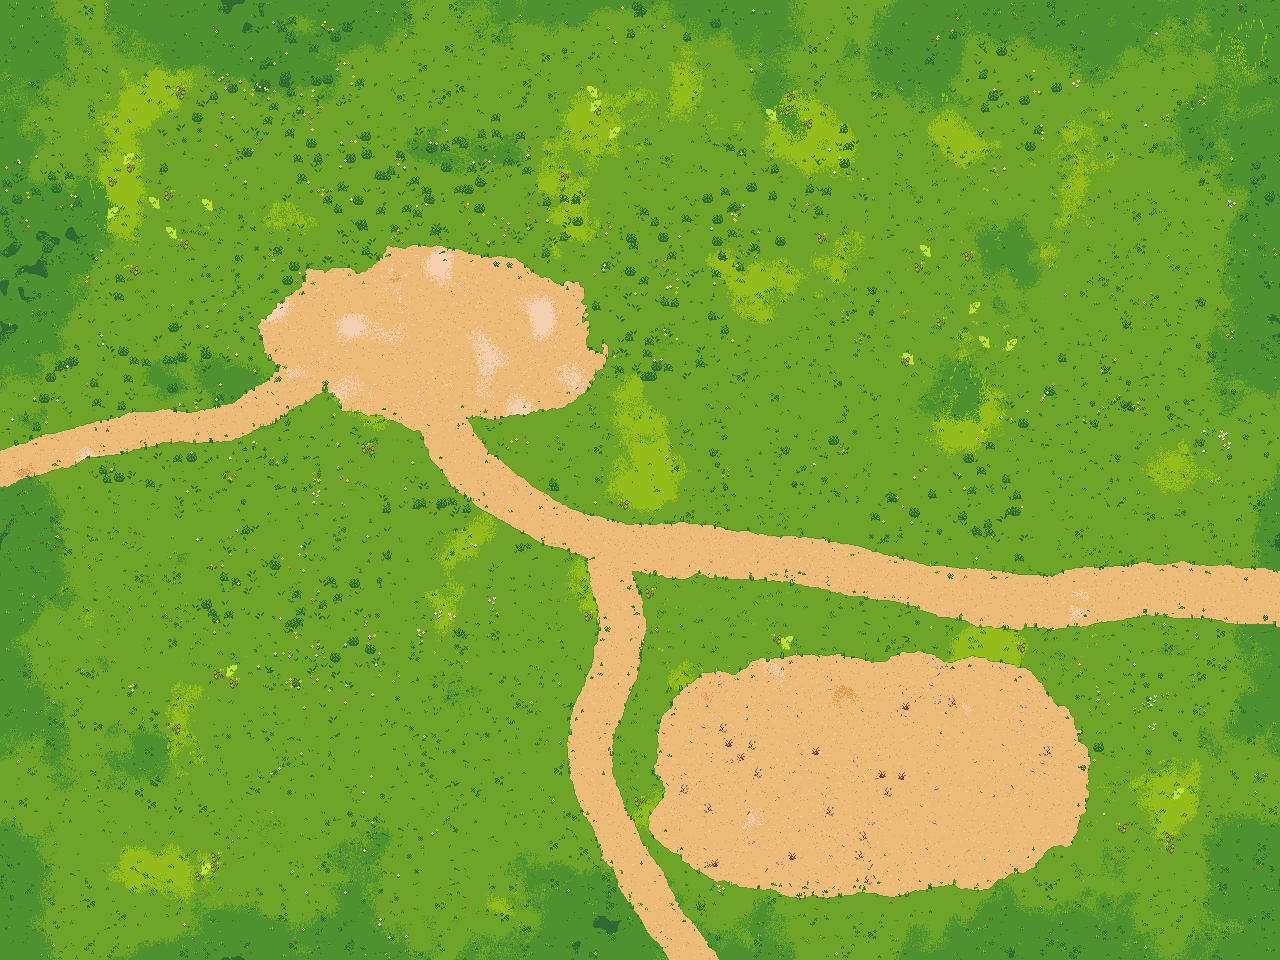
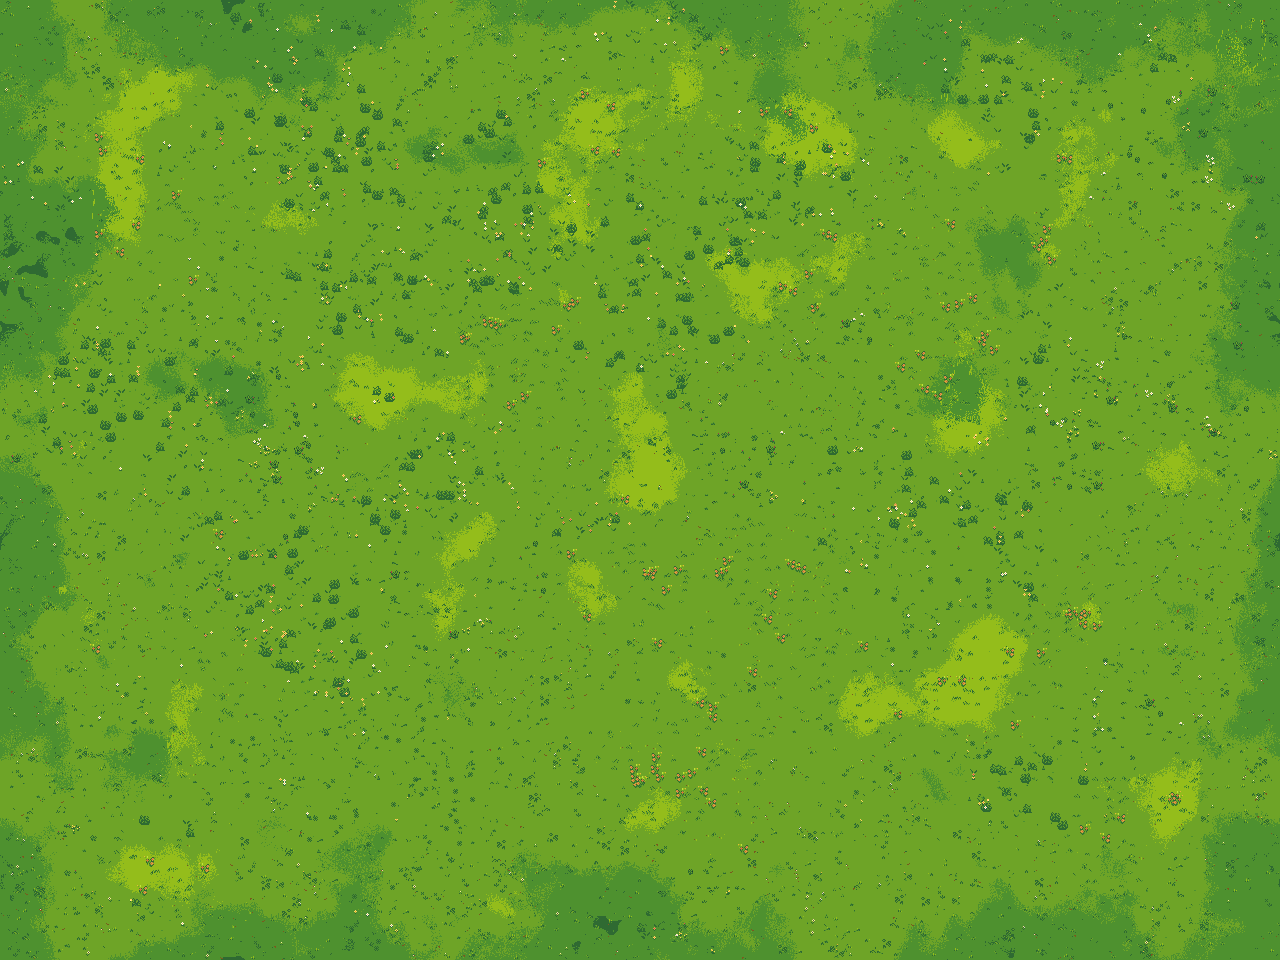
v7: lanskap starter jadi padang rumput murni (tanah muncul saat pemain membuat jalan/mencangkul)
Claude-Session: https://claude.ai/code/session_01Bh7MyzyAsPj6aNVrh74d4r

diff --git a/tools/lanskap/bake.py b/tools/lanskap/bake.py
@@ -3,6 +3,8 @@ from PIL import Image
 import numpy as np, json, sys
 from scipy.ndimage import gaussian_filter, distance_transform_edt
 SEED=int(sys.argv[1]) if len(sys.argv)>1 else 11
+# Padang rumput murni: tanah hanya muncul saat pemain membuat jalan / mencangkul (di dalam game)
+PURE_GRASS='--dengan-jalan' not in sys.argv
 rng=np.random.default_rng(SEED)
 W,H=1280,960          # piksel seni = 40x30 petak @32
 hx=lambda h: np.array([int(h[i:i+2],16) for i in (1,3,5)],np.uint8)
@@ -14,6 +16,9 @@ def L(role,kind='stamps'):
     for s in np.load(f'kit_{role}_{kind}.npy',allow_pickle=True):
         a=s[...,3]>0; h,w=a.shape
         if kind=='stamps' and h*w>=16 and a.mean()>0.72: continue   # buang potongan kotak penuh
+        px=s[a][:,:3].astype(int)
+        lime=((np.abs(px-[0x94,0xBD,0x1B]).sum(1)<20)|(np.abs(px-[0xBF,0xE3,0x3E]).sum(1)<20)).mean() if len(px) else 0
+        if kind=='stamps' and len(px)>=10 and lime>0.5: continue    # buang 'daun' limau polos
         out.append(s)
     return out
 ST={r:L(r) for r in ['tanah','tanah_batu','rumput_bunga','rumput_kalem','rumput_rimbun','rumput_kering','rumput_dasar','pasir']}
@@ -56,6 +61,8 @@ road=(dp+5*noise(6,4)+2.2*noise(1.6,5))<width
 field_f=(np.abs(xx-870)/215)**3+(np.abs(yy-775)/120)**3+0.30*noise(12,6)+0.10*noise(3,7)+0.04*noise(1.4,21)
 field=field_f<1.0
 dirt=road|field
+if PURE_GRASS:
+    yard[:]=False; dirt[:]=False; road[:]=False; field[:]=False
 grass=~(dirt|yard)
 # ---------------- TANAH & PASIR ----------------
 img=np.zeros((H,W,3),np.uint8)
